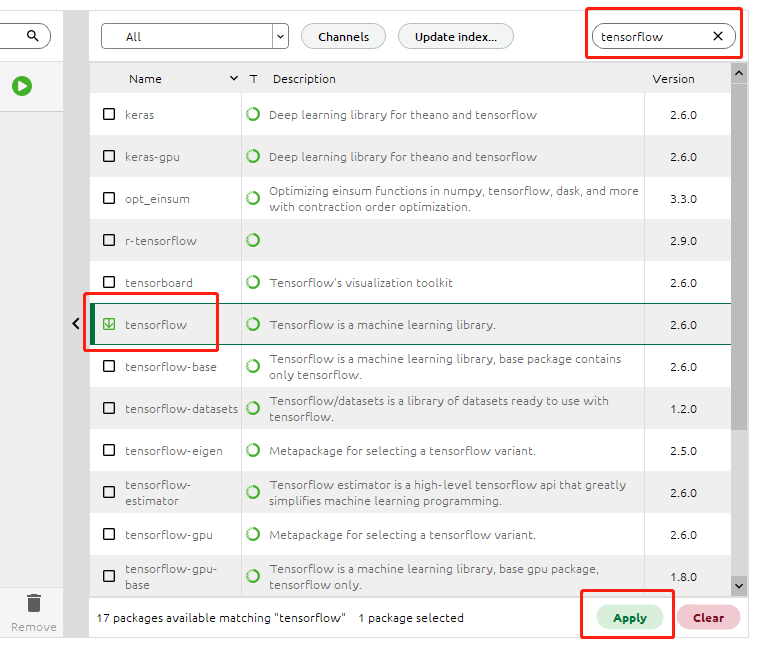
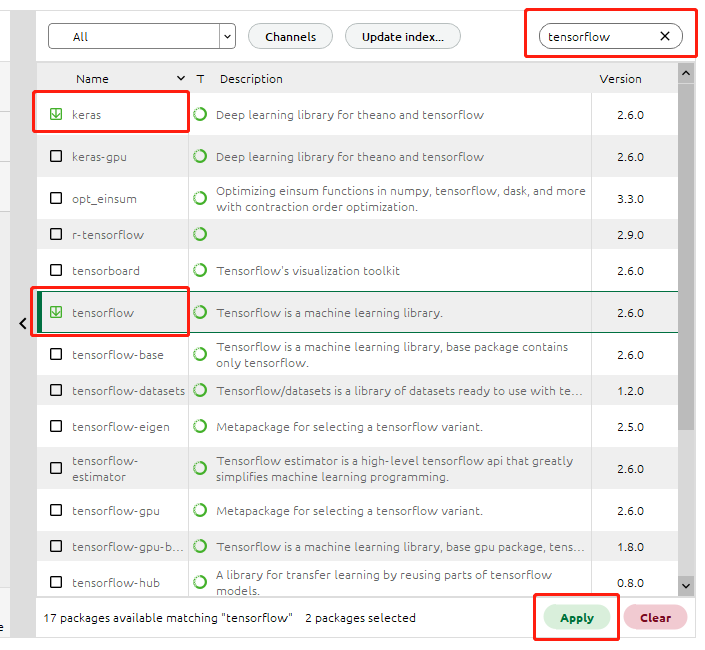
update ann.rst

diff --git a/docs/source/conf.py b/docs/source/conf.py
@@ -16,14 +16,14 @@ extensions = [
     'sphinx.ext.doctest',
     'sphinx.ext.autodoc',
     'sphinx.ext.autosummary',
-    'sphinx.ext.intersphinx',
+    #'sphinx.ext.intersphinx',
 ]
 
-intersphinx_mapping = {
-    'python': ('https://docs.python.org/3/', None),
-    'sphinx': ('https://www.sphinx-doc.org/en/master/', None),
-}
-intersphinx_disabled_domains = ['std']
+#intersphinx_mapping = {
+#    'python': ('https://docs.python.org/3/', None),
+#    'sphinx': ('https://www.sphinx-doc.org/en/master/', None),
+#}
+#intersphinx_disabled_domains = ['std']
 
 templates_path = ['_templates']
 

diff --git a/docs/source/ann.rst b/docs/source/ann.rst
@@ -1,0 +1,204 @@
+训练人工神经网络预测层流火焰速度
+=================================
+
+使用TensorFlow软件构建人工神经网络（Artificial Neural Network, ANN）模型，预测航空煤油掺混氢气的层流火焰速度。
+	
+建立人工神经网络模型
+*********************
+
+使用TensorFlow软件可以非常快速方便地构建我们需要的神经网络模型。这里我们不需要深入理解TensorFlow和神经网络的原理，只需要掌握使用方法即可。我们的神经网络模型需要4个输入，即 **压力、温度、当量比和掺氢比** 。根据这4个输入数据，神经网络模型需要预测该工况下航空煤油掺混氢气的层流火焰速度，因此神经网络模型的输出只有1个，即 **层流火焰速度** 。
+
+打开JupyterLab网页，在之前新建的case_conda文件夹下新建ANN.ipynb文件，输入下列代码建立人工神经网络：
+
+.. code-block::
+	
+	import tensorflow as tf
+	
+	model = tf.keras.models.Sequential([
+		tf.keras.layers.InputLayer(input_shape=[4]),
+		tf.keras.layers.Dense(128, activation='relu'),
+		tf.keras.layers.Dense(64, activation='relu'),
+		tf.keras.layers.Dense(1),
+		])
+		
+	model.compile(optimizer=tf.keras.optimizers.Adam(learning_rate=0.001),
+					loss='mean_squared_error',
+					metrics=['mean_absolute_error', 'mean_squared_error'])
+
+其中，tf.keras.models.Sequential表示我们建立的是一个序列模型，也就是从输入到输出是一个简单的顺序结构，中间没有分支、合并等复杂网络结构。
+
+tf.keras.layers.InputLayer是输入层，设定了输入数据有4个。最后一层tf.keras.layers.Dense是输出层，设定了输出数据有1个。中间两层tf.keras.layers.Dense是中间层，也叫隐含层，每层的神经元节点数量设定为128和64个；activation激活函数采用了ReLU函数。
+
+model.compile中设定了如下参数：optimizer优化器选用了Adam方法，learning_rate学习速率设定为0.001，loss损失函数采用了均方误差，metris评价指标设置为平均绝对误差和均方误差2个。
+
+
+构建训练数据集
+***************
+
+一组训练数据为压力、温度、当量比和掺氢比这4个输入数据和对应的层流火焰速度。训练数据集则是若干组训练数据的集合。一般来说，训练数据集越丰富越好，这样训练出来的神经网络模型预测效果更准确。
+
+作为示例，这里我们构建一个简单的训练数据集，包含5组训练数据：
+
+.. code-block::
+
+	import numpy as np
+	
+	train_input = np.zeros([5,4])
+	train_label = np.zeros([5])
+	
+	train_input[0] = [1, 300, 0.8, 0]
+	train_label[0] = 0.278139
+	
+	train_input[1] = [3, 400, 0.9, 0.2]
+	train_label[1] = 0.401458
+	
+	train_input[2] = [4, 500, 1.0, 0.3]
+	train_label[2] = 0.605466
+	
+	train_input[3] = [1, 350, 1.1, 0.3]
+	train_label[3] = 0.461102
+	
+	train_input[4] = [2, 450, 1.2, 0.1]
+	train_label[4] = 0.537888
+
+其中，train_input中每一行的数据为压力、温度、当量比和掺氢比，train_label中的数据为Cantera计算得到的该工况下的层流火焰速度。
+
+
+训练神经网络模型
+*****************
+
+只需要一行代码即可进行神经网络模型的训练：
+
+.. code-block::
+
+	model.fit(train_input, train_label, batch_size=2, epochs=50)
+	
+其中，batch_size是设定每一批次训练几组数据，我们设定为2组，epochs是指对整个训练数据集循环多少次，我们设定为50次。训练过程中，程序会不断输出loss和error的情况。我们可以看到随着训练的进行，loss和error是在不断下降的。
+
+.. code-block::
+
+	Epoch 1/50
+	3/3 [==============================] - 1s 4ms/step - loss: 621.9543 - mean_absolute_error: 23.9366 - mean_squared_error: 621.9543
+	Epoch 2/50
+	3/3 [==============================] - 0s 3ms/step - loss: 126.1330 - mean_absolute_error: 8.8534 - mean_squared_error: 126.1330
+	Epoch 3/50
+	3/3 [==============================] - 0s 3ms/step - loss: 273.9980 - mean_absolute_error: 16.1513 - mean_squared_error: 273.9980
+	Epoch 4/50
+	3/3 [==============================] - 0s 12ms/step - loss: 39.1323 - mean_absolute_error: 5.6953 - mean_squared_error: 39.1323
+	Epoch 5/50
+	3/3 [==============================] - 0s 5ms/step - loss: 24.0898 - mean_absolute_error: 4.6771 - mean_squared_error: 24.0898
+	Epoch 6/50
+	3/3 [==============================] - 0s 4ms/step - loss: 94.6176 - mean_absolute_error: 9.5424 - mean_squared_error: 94.6176
+	Epoch 7/50
+	3/3 [==============================] - 0s 5ms/step - loss: 40.2508 - mean_absolute_error: 6.1616 - mean_squared_error: 40.2508
+	Epoch 8/50
+	3/3 [==============================] - 0s 10ms/step - loss: 2.5859 - mean_absolute_error: 1.5413 - mean_squared_error: 2.5859
+	Epoch 9/50
+	3/3 [==============================] - 0s 7ms/step - loss: 29.8354 - mean_absolute_error: 5.3781 - mean_squared_error: 29.8354
+	Epoch 10/50
+	3/3 [==============================] - 0s 6ms/step - loss: 29.4403 - mean_absolute_error: 5.2932 - mean_squared_error: 29.4403
+	Epoch 11/50
+	3/3 [==============================] - 0s 11ms/step - loss: 3.5210 - mean_absolute_error: 1.5579 - mean_squared_error: 3.5210
+	Epoch 12/50
+	3/3 [==============================] - 0s 3ms/step - loss: 9.3138 - mean_absolute_error: 2.9066 - mean_squared_error: 9.3138
+	Epoch 13/50
+	3/3 [==============================] - 0s 5ms/step - loss: 13.2016 - mean_absolute_error: 3.4854 - mean_squared_error: 13.2016
+	Epoch 14/50
+	3/3 [==============================] - 0s 5ms/step - loss: 1.2594 - mean_absolute_error: 0.9644 - mean_squared_error: 1.2594
+	Epoch 15/50
+	3/3 [==============================] - 0s 6ms/step - loss: 2.5840 - mean_absolute_error: 1.5430 - mean_squared_error: 2.5840
+	Epoch 16/50
+	3/3 [==============================] - 0s 3ms/step - loss: 4.2440 - mean_absolute_error: 2.0444 - mean_squared_error: 4.2440
+	Epoch 17/50
+	3/3 [==============================] - 0s 7ms/step - loss: 0.5990 - mean_absolute_error: 0.6711 - mean_squared_error: 0.5990
+	Epoch 18/50
+	3/3 [==============================] - 0s 6ms/step - loss: 1.8664 - mean_absolute_error: 1.3161 - mean_squared_error: 1.8664
+	Epoch 19/50
+	3/3 [==============================] - 0s 5ms/step - loss: 2.0592 - mean_absolute_error: 1.3977 - mean_squared_error: 2.0592
+	Epoch 20/50
+	3/3 [==============================] - 0s 10ms/step - loss: 0.1225 - mean_absolute_error: 0.2670 - mean_squared_error: 0.1225
+	Epoch 21/50
+	3/3 [==============================] - 0s 14ms/step - loss: 0.8520 - mean_absolute_error: 0.9161 - mean_squared_error: 0.8520
+	Epoch 22/50
+	3/3 [==============================] - 0s 11ms/step - loss: 0.5746 - mean_absolute_error: 0.7230 - mean_squared_error: 0.5746
+	Epoch 23/50
+	3/3 [==============================] - 0s 3ms/step - loss: 0.0464 - mean_absolute_error: 0.1780 - mean_squared_error: 0.0464
+	Epoch 24/50
+	3/3 [==============================] - 0s 11ms/step - loss: 0.4360 - mean_absolute_error: 0.6446 - mean_squared_error: 0.4360
+	Epoch 25/50
+	3/3 [==============================] - 0s 4ms/step - loss: 0.1062 - mean_absolute_error: 0.3005 - mean_squared_error: 0.1062
+	Epoch 26/50
+	3/3 [==============================] - 0s 7ms/step - loss: 0.1453 - mean_absolute_error: 0.3543 - mean_squared_error: 0.1453
+	Epoch 27/50
+	3/3 [==============================] - 0s 6ms/step - loss: 0.2184 - mean_absolute_error: 0.4553 - mean_squared_error: 0.2184
+	Epoch 28/50
+	3/3 [==============================] - 0s 9ms/step - loss: 0.0197 - mean_absolute_error: 0.1023 - mean_squared_error: 0.0197
+	Epoch 29/50
+	3/3 [==============================] - 0s 9ms/step - loss: 0.0967 - mean_absolute_error: 0.2926 - mean_squared_error: 0.0967
+	Epoch 30/50
+	3/3 [==============================] - 0s 4ms/step - loss: 0.0278 - mean_absolute_error: 0.1361 - mean_squared_error: 0.0278
+	Epoch 31/50
+	3/3 [==============================] - 0s 10ms/step - loss: 0.0247 - mean_absolute_error: 0.1405 - mean_squared_error: 0.0247
+	Epoch 32/50
+	3/3 [==============================] - 0s 4ms/step - loss: 0.0439 - mean_absolute_error: 0.1981 - mean_squared_error: 0.0439
+	Epoch 33/50
+	3/3 [==============================] - 0s 4ms/step - loss: 0.0038 - mean_absolute_error: 0.0547 - mean_squared_error: 0.0038
+	Epoch 34/50
+	3/3 [==============================] - 0s 7ms/step - loss: 0.0342 - mean_absolute_error: 0.1581 - mean_squared_error: 0.0342
+	Epoch 35/50
+	3/3 [==============================] - 0s 6ms/step - loss: 0.0127 - mean_absolute_error: 0.0750 - mean_squared_error: 0.0127
+	Epoch 36/50
+	3/3 [==============================] - 0s 7ms/step - loss: 0.0226 - mean_absolute_error: 0.1278 - mean_squared_error: 0.0226
+	Epoch 37/50
+	3/3 [==============================] - 0s 15ms/step - loss: 0.0152 - mean_absolute_error: 0.1044 - mean_squared_error: 0.0152
+	Epoch 38/50
+	3/3 [==============================] - 0s 4ms/step - loss: 0.0076 - mean_absolute_error: 0.0823 - mean_squared_error: 0.0076
+	Epoch 39/50
+	3/3 [==============================] - 0s 18ms/step - loss: 0.0227 - mean_absolute_error: 0.1338 - mean_squared_error: 0.0227
+	Epoch 40/50
+	3/3 [==============================] - 0s 7ms/step - loss: 0.0082 - mean_absolute_error: 0.0756 - mean_squared_error: 0.0082
+	Epoch 41/50
+	3/3 [==============================] - 0s 17ms/step - loss: 0.0105 - mean_absolute_error: 0.0792 - mean_squared_error: 0.0105   
+	Epoch 42/50
+	3/3 [==============================] - 0s 3ms/step - loss: 0.0102 - mean_absolute_error: 0.0896 - mean_squared_error: 0.0102
+	Epoch 43/50
+	3/3 [==============================] - 0s 6ms/step - loss: 0.0089 - mean_absolute_error: 0.0793 - mean_squared_error: 0.0089
+	Epoch 44/50
+	3/3 [==============================] - 0s 4ms/step - loss: 0.0081 - mean_absolute_error: 0.0752 - mean_squared_error: 0.0081
+	Epoch 45/50
+	3/3 [==============================] - 0s 6ms/step - loss: 0.0062 - mean_absolute_error: 0.0694 - mean_squared_error: 0.0062
+	Epoch 46/50
+	3/3 [==============================] - 0s 12ms/step - loss: 0.0065 - mean_absolute_error: 0.0705 - mean_squared_error: 0.0065
+	Epoch 47/50
+	3/3 [==============================] - 0s 5ms/step - loss: 0.0061 - mean_absolute_error: 0.0682 - mean_squared_error: 0.0061
+	Epoch 48/50
+	3/3 [==============================] - 0s 7ms/step - loss: 0.0067 - mean_absolute_error: 0.0723 - mean_squared_error: 0.0067
+	Epoch 49/50
+	3/3 [==============================] - 0s 3ms/step - loss: 0.0066 - mean_absolute_error: 0.0724 - mean_squared_error: 0.0066
+	Epoch 50/50
+	3/3 [==============================] - 0s 3ms/step - loss: 0.0063 - mean_absolute_error: 0.0690 - mean_squared_error: 0.0063
+
+训练完成后，我们可以调用model.predict函数进行层流火焰速度的预测：
+
+.. code-block::
+
+	model.predict(train_input)
+	
+程序输出结果如下：
+	
+.. code-block::
+	
+	array([[0.29831234],
+           [0.51501596],
+           [0.6595675 ],
+           [0.3535203 ],
+           [0.49524155]], dtype=float32)
+		   
+可以看到，神经网络模型预测的结果与train_label中的目标值有一定的偏差，说明训练的步数还不够，可以把epochs值设定更大再进行训练。
+
+.. Warning::
+	大家按照本示例的方法，把前面构建的层流火焰速度的完整数据库用于训练。神经网络模型的预测准确度与训练数据集的大小和范围密切相关， **数据量大、范围广的训练数据集** 能够显著提升神经网络模型的预测效果。
+	
+.. Note::
+
+	训练好的神经网络模型可以用于预测数据库中不存在的新工况的层流火焰速度，请大家自行选择新的 **压力、温度、当量比和掺氢比** 输入到神经网络模型中，预测航空煤油掺混氢气的层流火焰速度，并与Cantera的计算结果进行对比，观察神经网络模型对于未知新工况的预测准确度。

diff --git a/docs/source/install.rst b/docs/source/install.rst
@@ -50,7 +50,7 @@
 
 `TensorFlow <https://www.tensorflow.org/?hl=zh-cn>`_ 是Google开发的一个开源软件库，用于各种感知和语言理解任务的机器学习。Anaconda软件默认提供了TensorFlow的安装源，因此直接搜索安装即可。
 
-搜索框中输入tensorflow，在下方出现的tensorflow软件包左侧打钩，然后点击右下角的 **Apply** 按钮。
+搜索框中输入tensorflow，在下方出现的 **keras** 和 **tensorflow** 软件包左侧打钩，然后点击右下角的 **Apply** 按钮。
 
 .. image:: images/install-tensorflow-1.png
 
@@ -86,8 +86,9 @@
 	print(ct.__version__)
 	import tensorflow as tf
 	print(tf.__version__)
+	print(tf.keras.__version__)
 
-输入完成后，点击上方的小箭头运行。如果能够正常输出Cantera和TensorFlow的版本号，则说明安装成功。
+输入完成后，点击上方的小箭头运行。如果能够正常输出Cantera、TensorFlow和Keras的版本号，则说明安装成功。
 
 .. image:: images/test-jupyterlab-3.png
 

diff --git a/docs/source/tensorflow.rst b/docs/source/tensorflow.rst
@@ -4,7 +4,7 @@ TensorFlow软件入门
 熟悉TensorFlow基本操作
 ***********************
 
-新版本的TensorFlow软件内置了Keras机器学习接口，极大地降低了程序编写的难度。我们将通过Keras接口调用TensorFlow来建立神经网络。
+2.X版本的TensorFlow软件内置了Keras机器学习接口，极大地降低了程序编写的难度。我们将通过Keras接口调用TensorFlow来建立神经网络。
 
 Google官方提供了丰富的 `TensorFlow快速入门文档 <https://tensorflow.google.cn/tutorials>`_ ，我们主要学习 **面向初学者的快速入门** 和 **Keras机器学习基础知识** 这2个部分。建议跟随教程在我们自己安装的JupyterLab里输入代码，观察代码运行结果，并与教程对照学习。
 

diff --git a/docs/source/flame.rst b/docs/source/flame.rst
@@ -82,7 +82,6 @@
 	程序运行时会出现 ``CanteraWarning: NasaPoly2::validate:`` 的警告信息，我们可以忽略。最后运行结果是 ``multicomponent flamespeed = 0.359553 m/s  Solution saved to 'adiabatic_flame.csv'.`` 我们成功计算得到了层流火焰速度为0.359553 m/s。
 	
 .. Note::
-
 	为了建立不同工况下混合燃料的层流火焰速度数据库，我们需要计算压力1-4个大气压（atm），温度300-500 K，当量比（equivalence ratio）0.8-1.2，掺氢比（H2_ratio）0-0.3范围内取值时的层流火焰速度。
 	
 	压力可取值 [1, 2, 3, 4]，温度可取值 [300, 350, 400, 450, 500]，当量比可取值 [0.8, 0.9, 1.0, 1.1, 1.2]，掺氢比可取值 [0, 0.1, 0.2, 0.3]。

diff --git a/docs/source/index.rst b/docs/source/index.rst
@@ -28,3 +28,4 @@ Contents
    cantera
    tensorflow
    flame
+   ann
